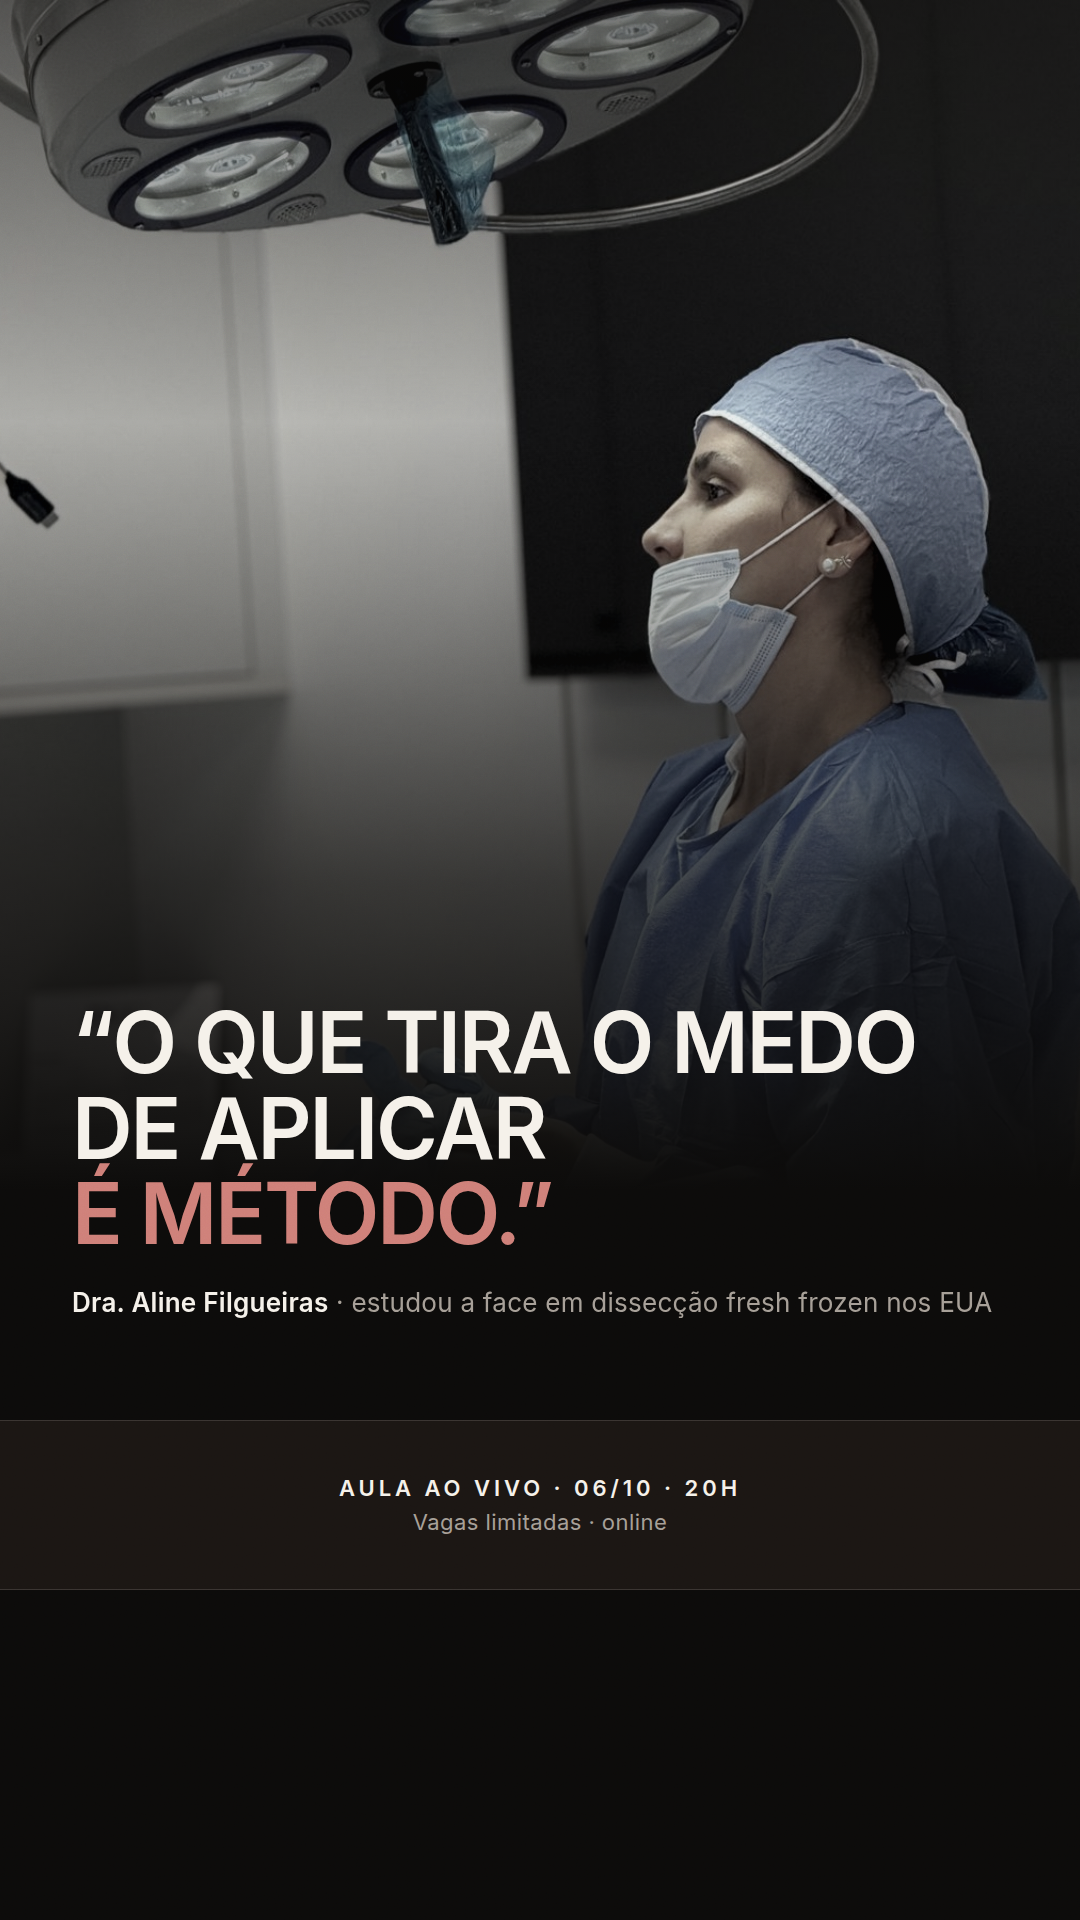
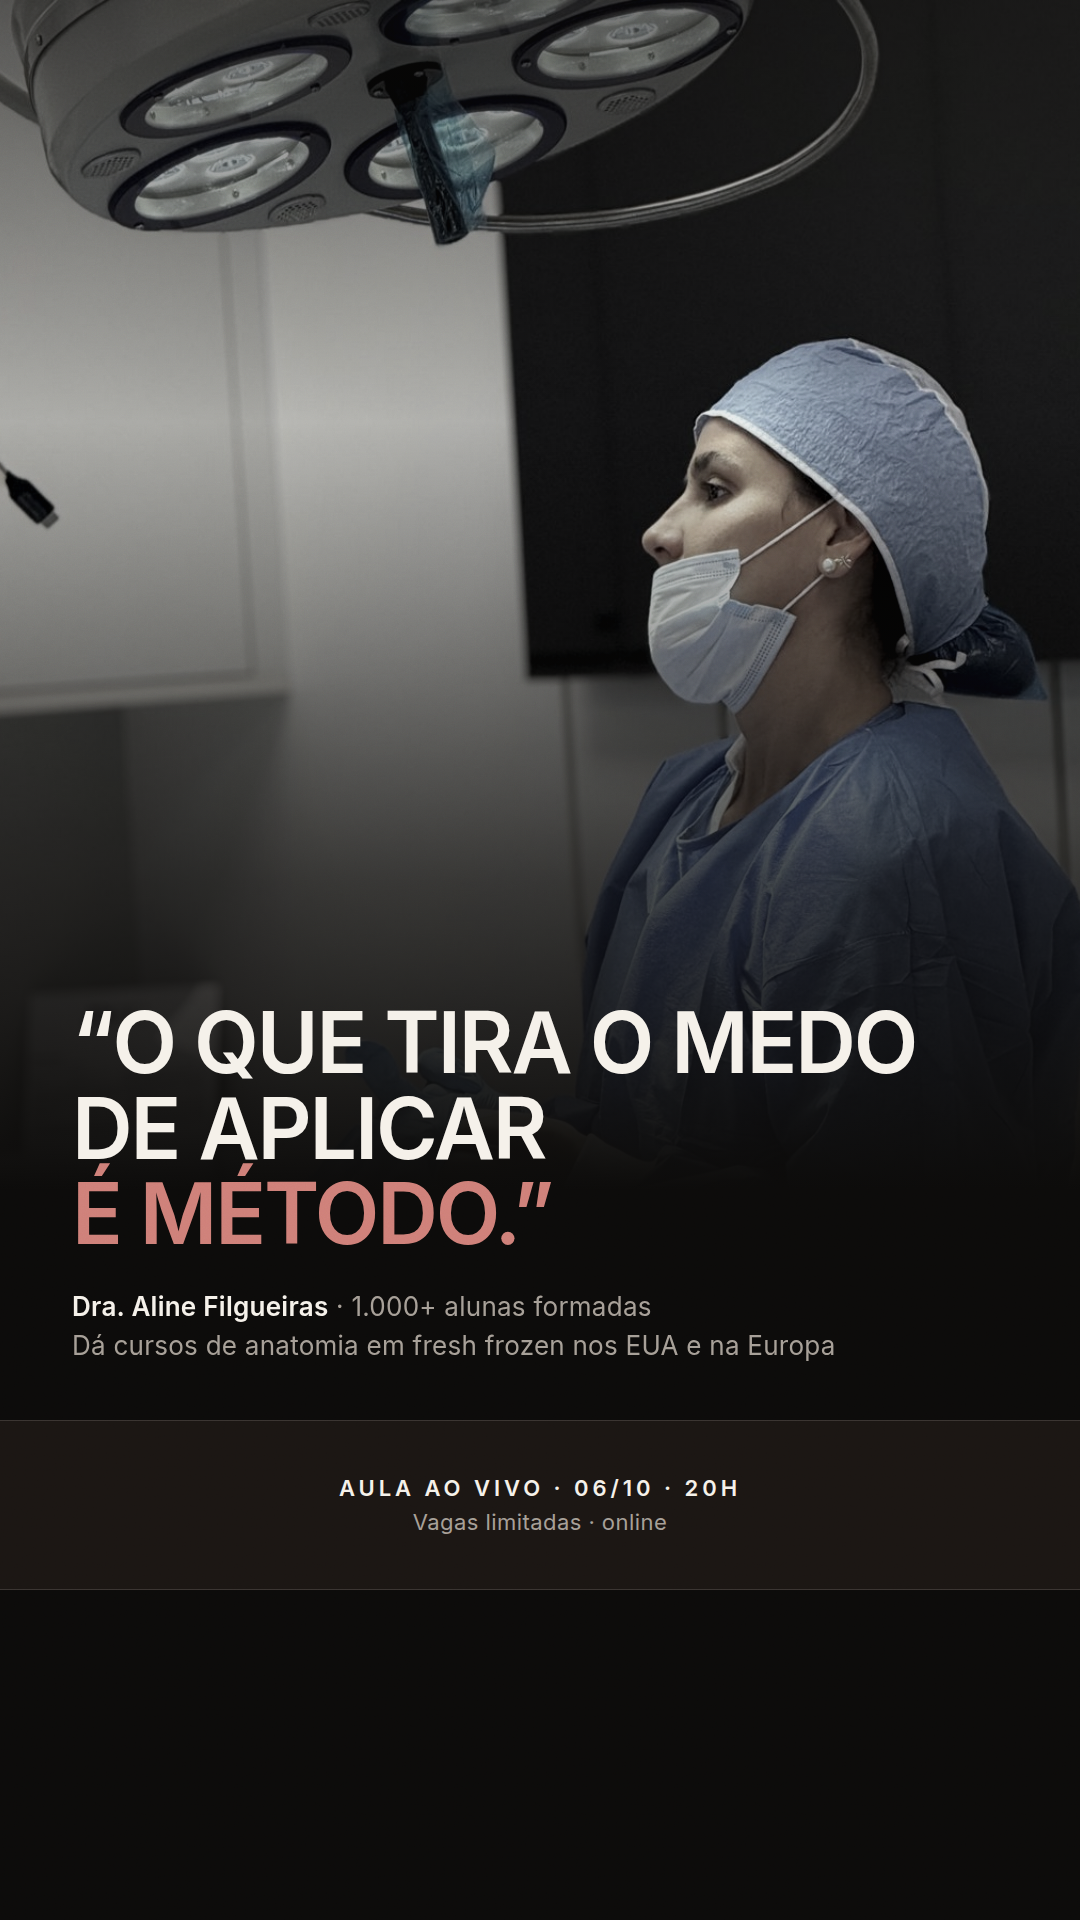
Criativo 08: linha de autoridade mais forte
"Estudou" vira o que a Aline ensina: 1.000+ alunas formadas e cursos de
anatomia em fresh frozen nos EUA e na Europa (mesmos fatos do playbook).

Claude-Session: https://claude.ai/code/session_01WPUMeavyQNj8nGDqq9EBnH

diff --git a/docs/criativos/criativos.html b/docs/criativos/criativos.html
@@ -186,7 +186,7 @@
   .t6 .texto { position: absolute; left: 72px; right: 72px; top: 820px; }
   .t6 h1 { font-family: "Inter", sans-serif; font-size: 78px; line-height: 1.02; font-weight: 600; letter-spacing: -.025em; text-transform: uppercase; color: var(--fg); }
   .t6 h1 em { font-style: normal; color: var(--wine-ink); white-space: nowrap; }
-  .t6 .autor { margin-top: 30px; font-size: 26px; color: var(--fg-soft); letter-spacing: .01em; }
+  .t6 .autor { margin-top: 30px; font-size: 26px; line-height: 1.5; color: var(--fg-soft); letter-spacing: .01em; }
   .t6 .autor b { color: var(--fg); font-weight: 600; }
   .t6 .barra { position: absolute; left: 0; right: 0; bottom: 0; height: 170px; background: var(--bg-3); border-top: 1px solid var(--line); display: flex; align-items: center; justify-content: center; padding: 0 72px; text-align: center; }
   .t6 .barra .aula { font-size: 22px; font-weight: 600; letter-spacing: .18em; text-transform: uppercase; color: var(--fg); }
@@ -351,7 +351,7 @@
   <div class="foto"></div><div class="veu"></div>
   <div class="texto">
     <h1>&ldquo;O que tira o medo de aplicar <em>é método.&rdquo;</em></h1>
-    <p class="autor"><b>Dra. Aline Filgueiras</b> · estudou a face em dissecção fresh frozen nos EUA</p>
+    <p class="autor"><b>Dra. Aline Filgueiras</b> · 1.000+ alunas formadas<br>Dá cursos de anatomia em fresh frozen nos EUA e na Europa</p>
   </div>
   <div class="barra">
     <span class="aula">Aula ao vivo · 06/10 · 20h<small>Vagas limitadas · online</small></span>
